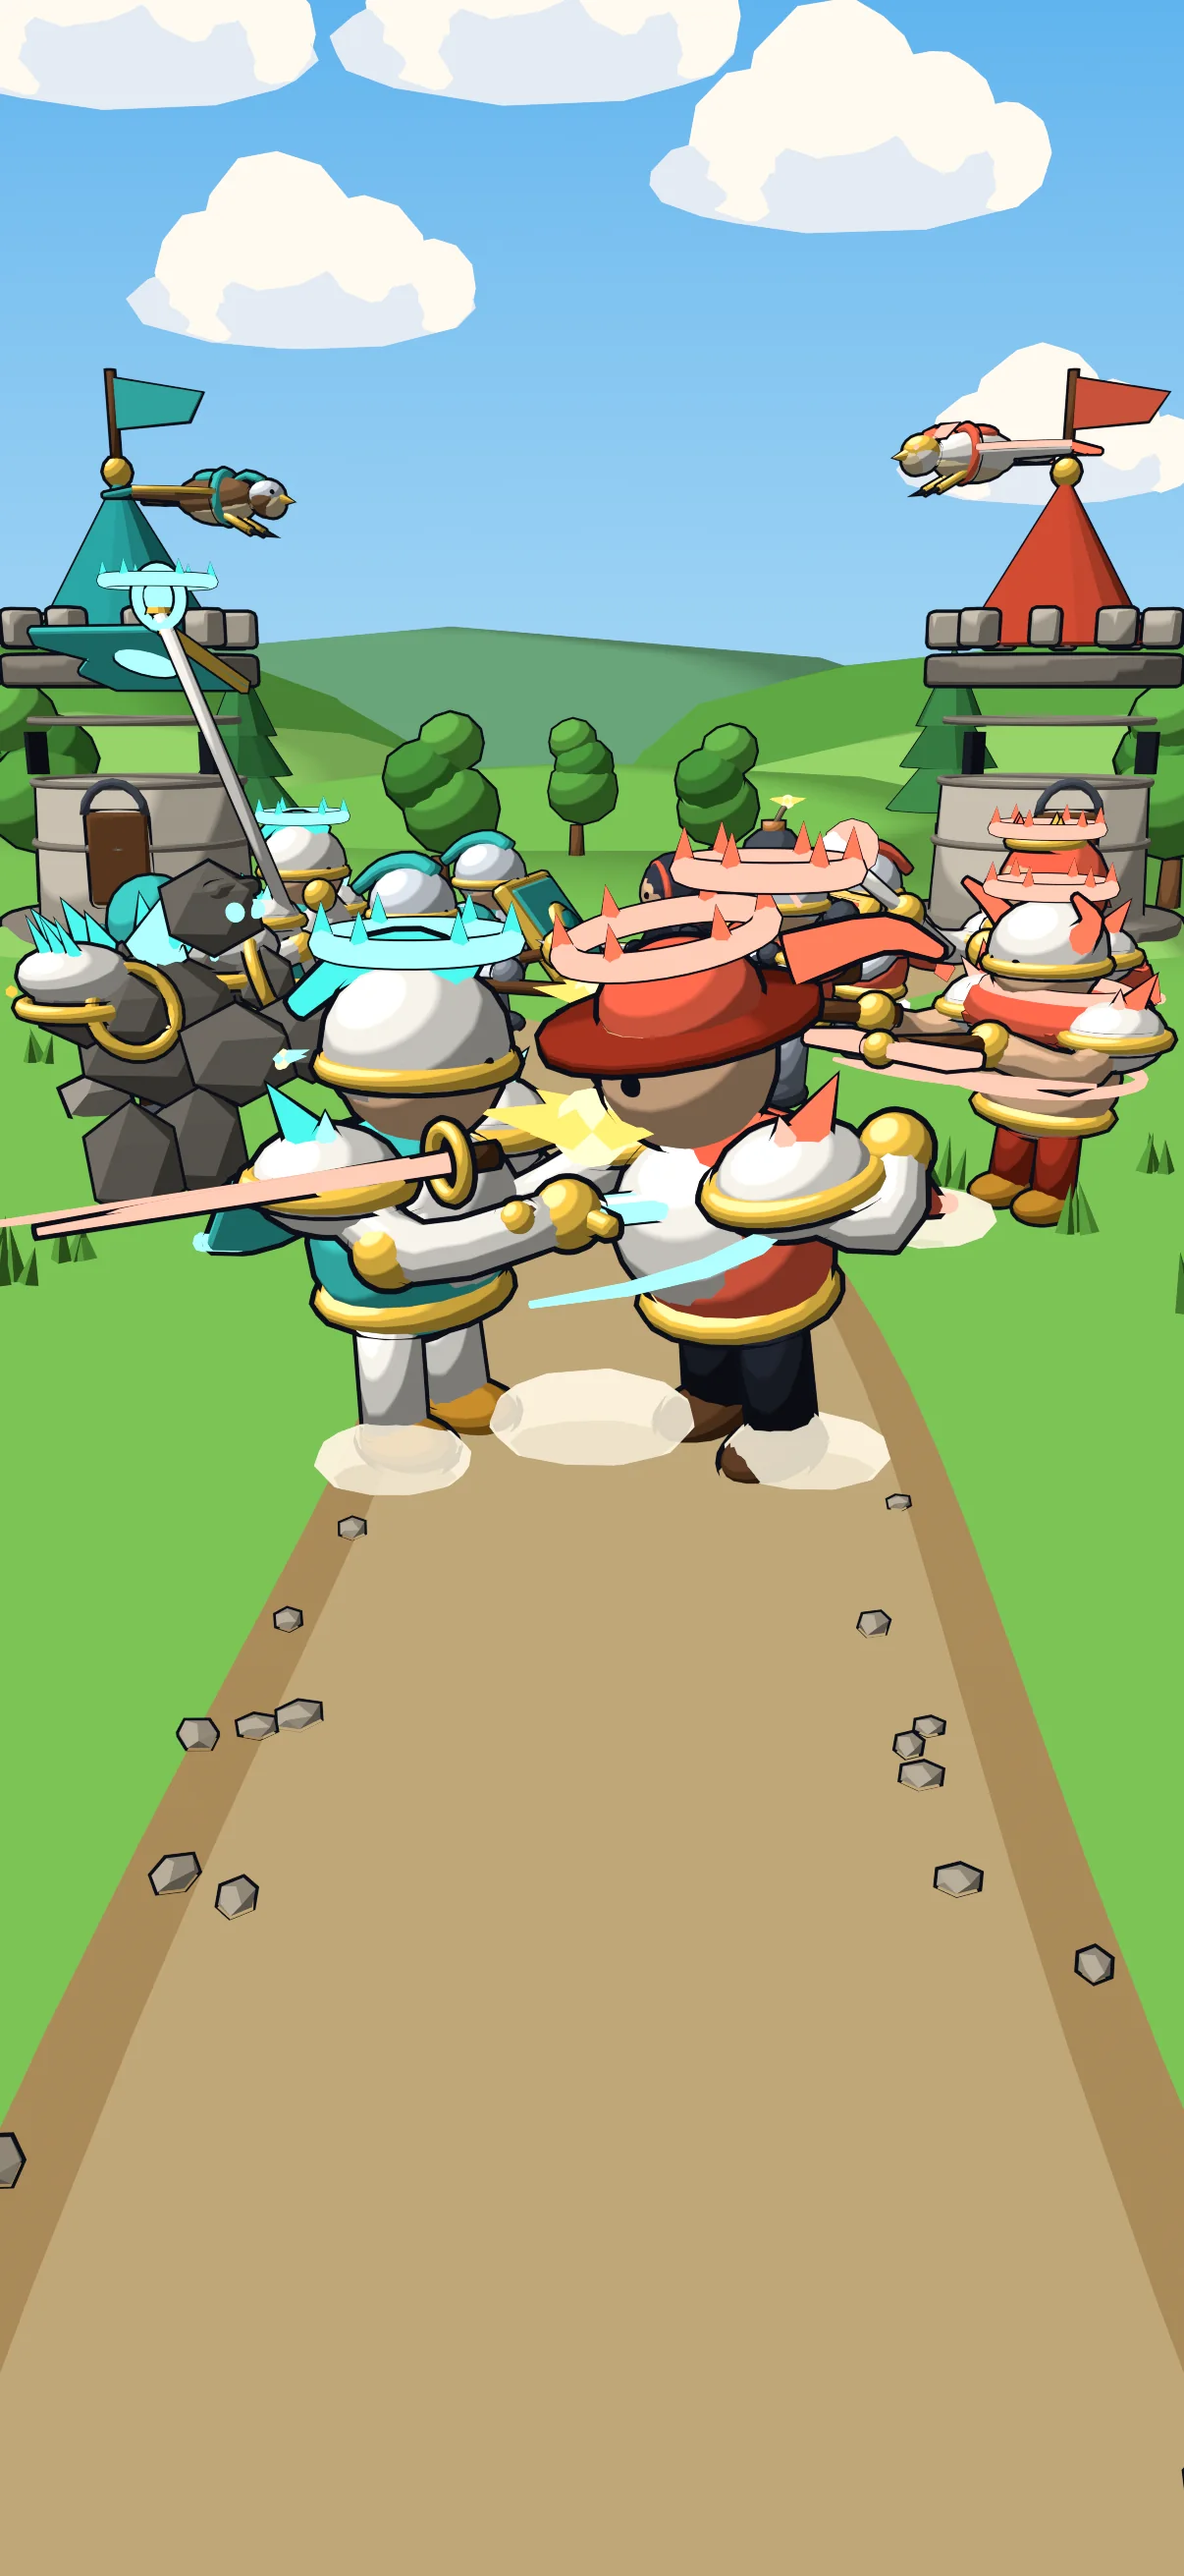
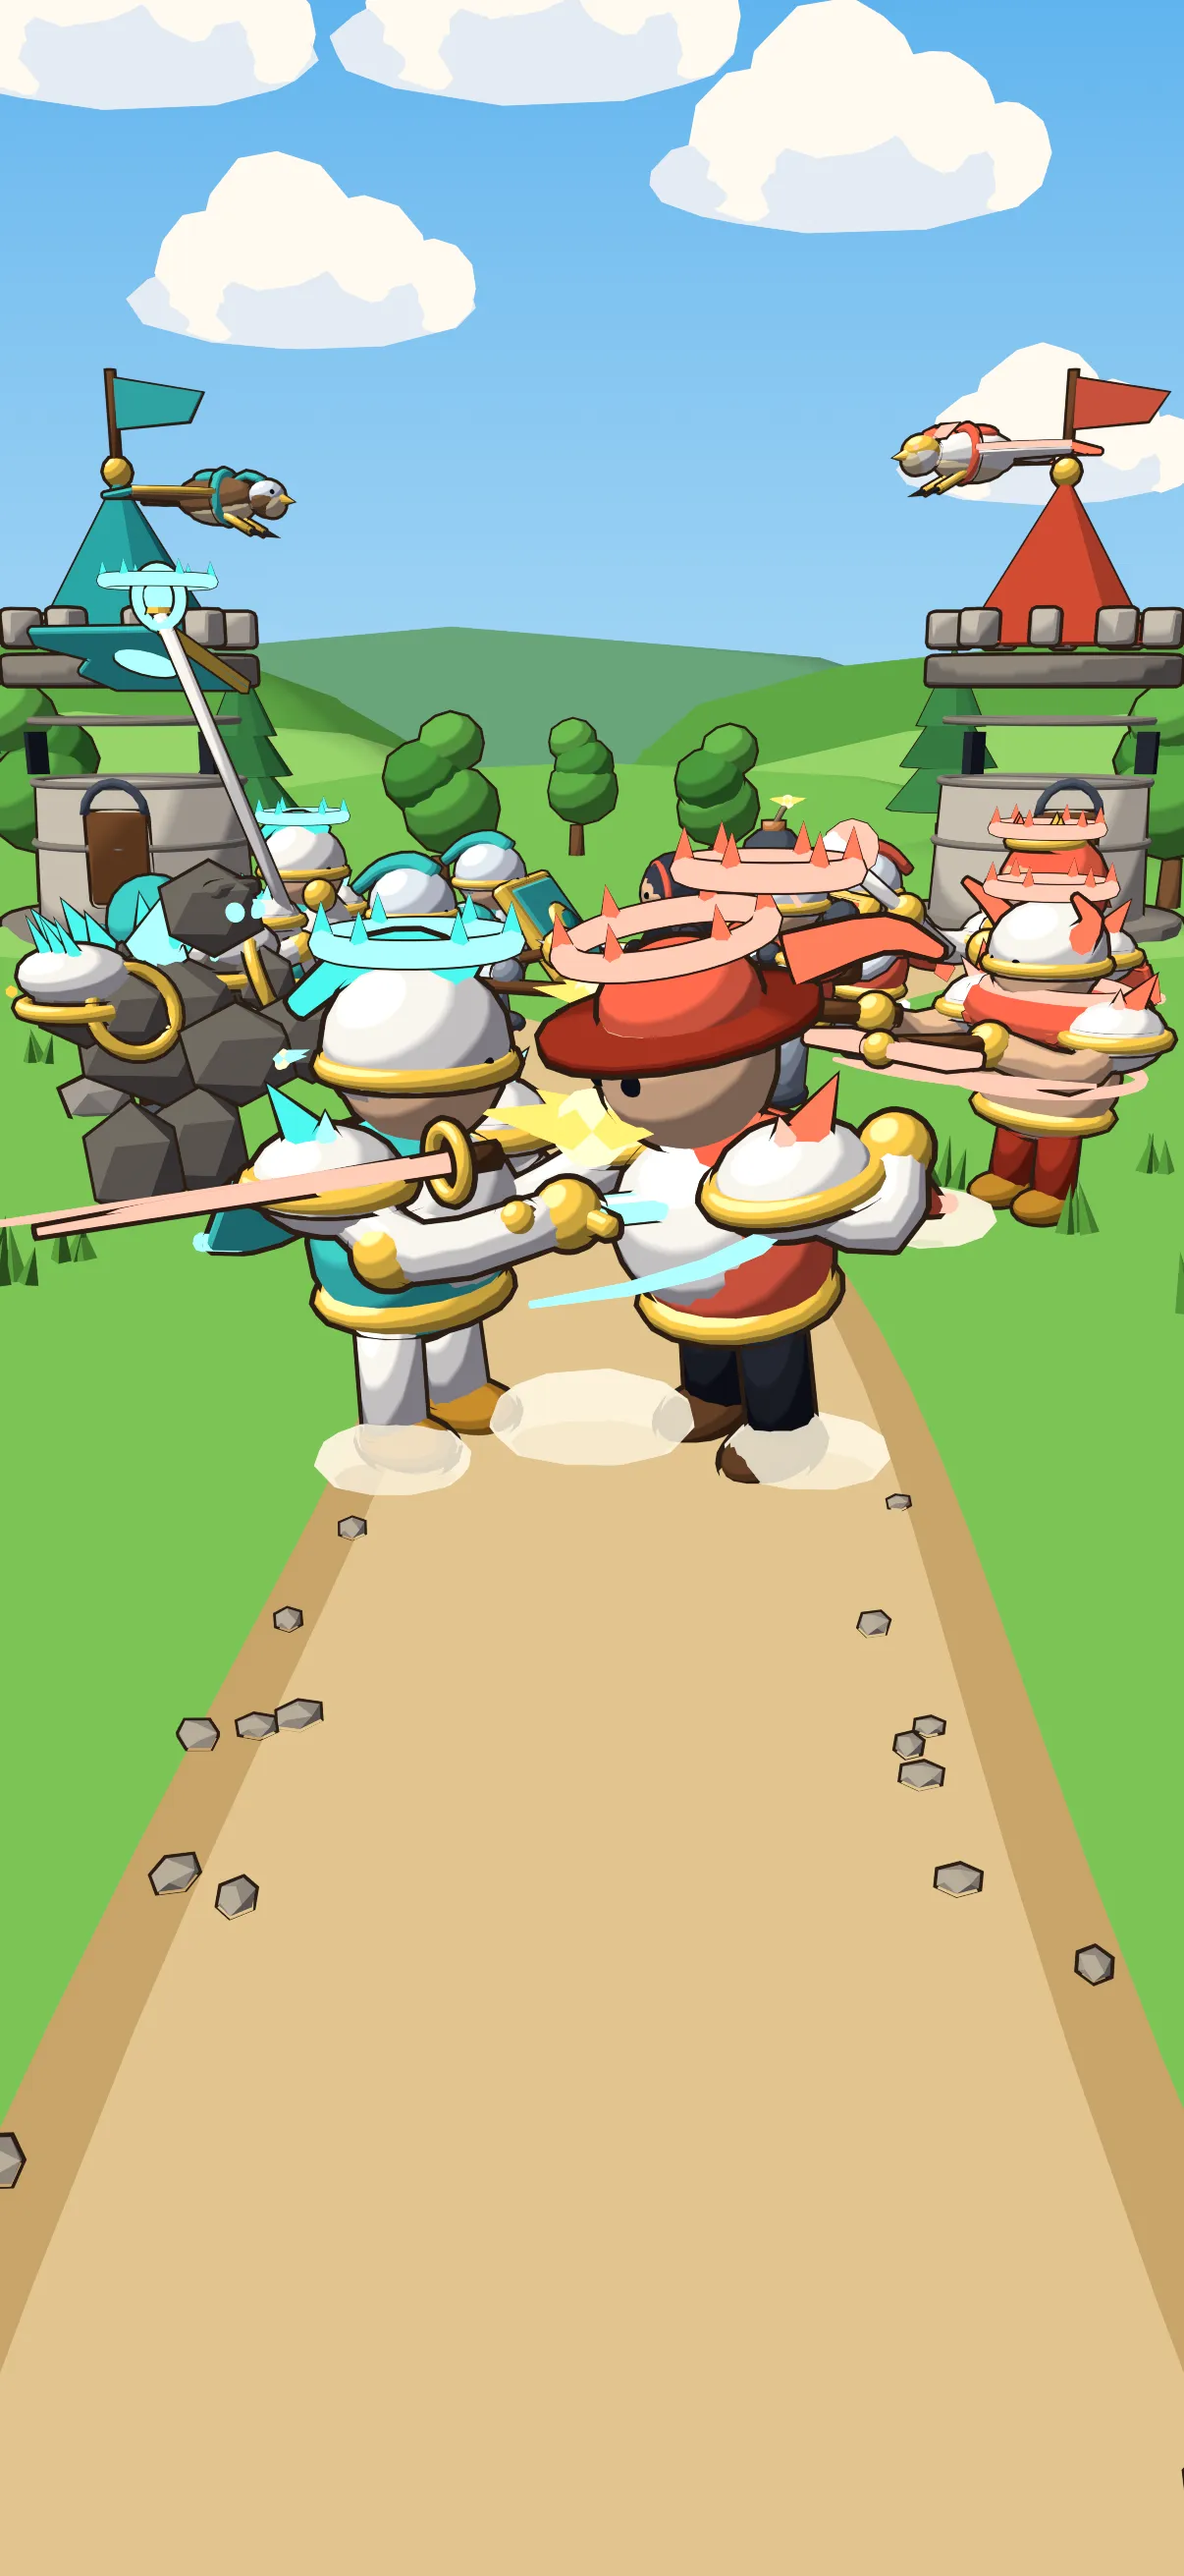
Meadow pass on VFX and title art: VFX ink follows the active direction, atlas repainted; title key art re-rendered with the Meadow kit

diff --git a/art/vfx/make_vfx.py b/art/vfx/make_vfx.py
@@ -28,7 +28,22 @@ OUT = os.path.join(ROOT, "public", "vfx")
 SS = 2  # supersample
 ATLAS_W = 2048
 
-INK = np.array([0.07, 0.06, 0.09])
+
+
+def _style():
+    """The active art direction (art/style/active.json): its ink outlines the solid effects."""
+    sd = os.path.join(ROOT, "art", "style")
+    try:
+        with open(os.path.join(sd, "active.json")) as f:
+            name = json.load(f)["direction"]
+        with open(os.path.join(sd, f"{name}.json")) as f:
+            return json.load(f)
+    except (OSError, KeyError, ValueError):
+        return None
+
+
+STYLE = _style()
+INK = (np.array([int(STYLE["outline"]["color"][i:i + 2], 16) for i in (1, 3, 5)]) / 255.0) if STYLE else np.array([0.07, 0.06, 0.09])
 
 
 def hexc(h):
